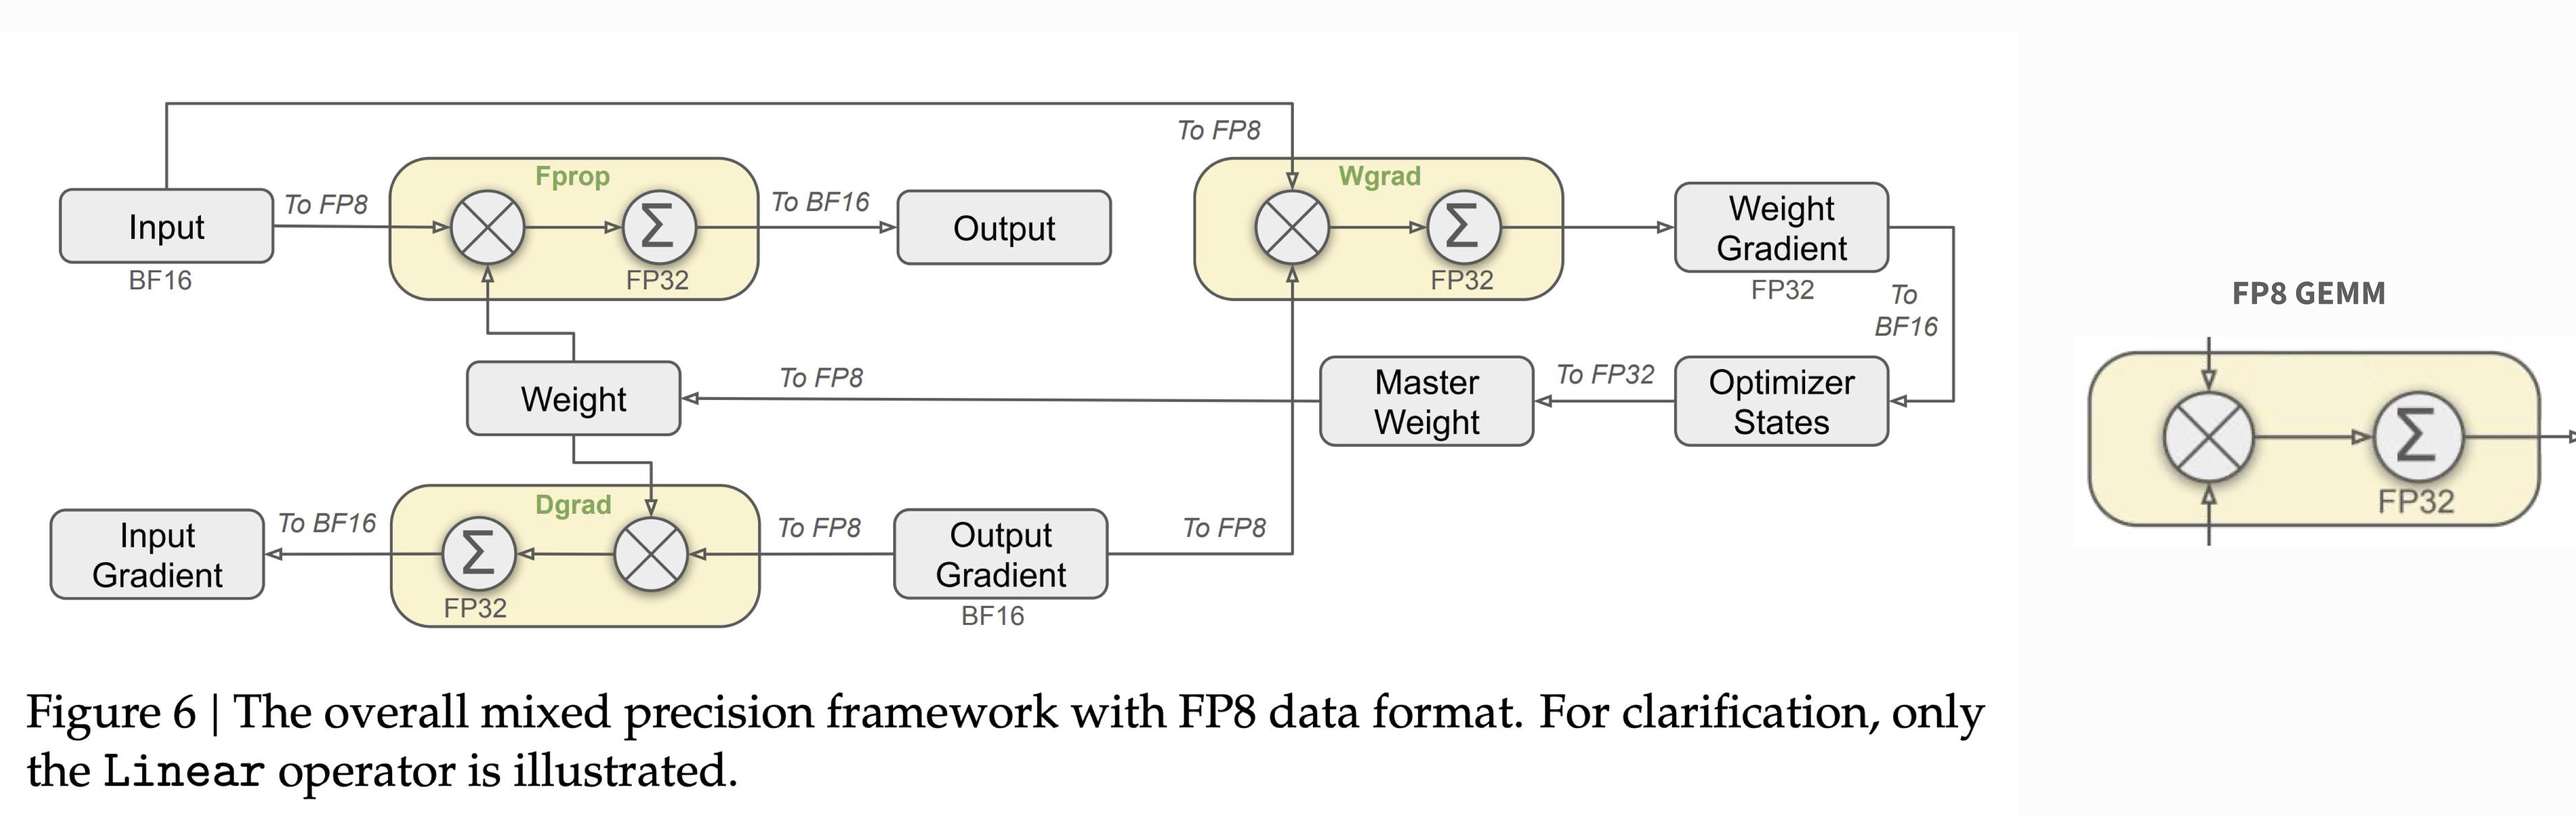
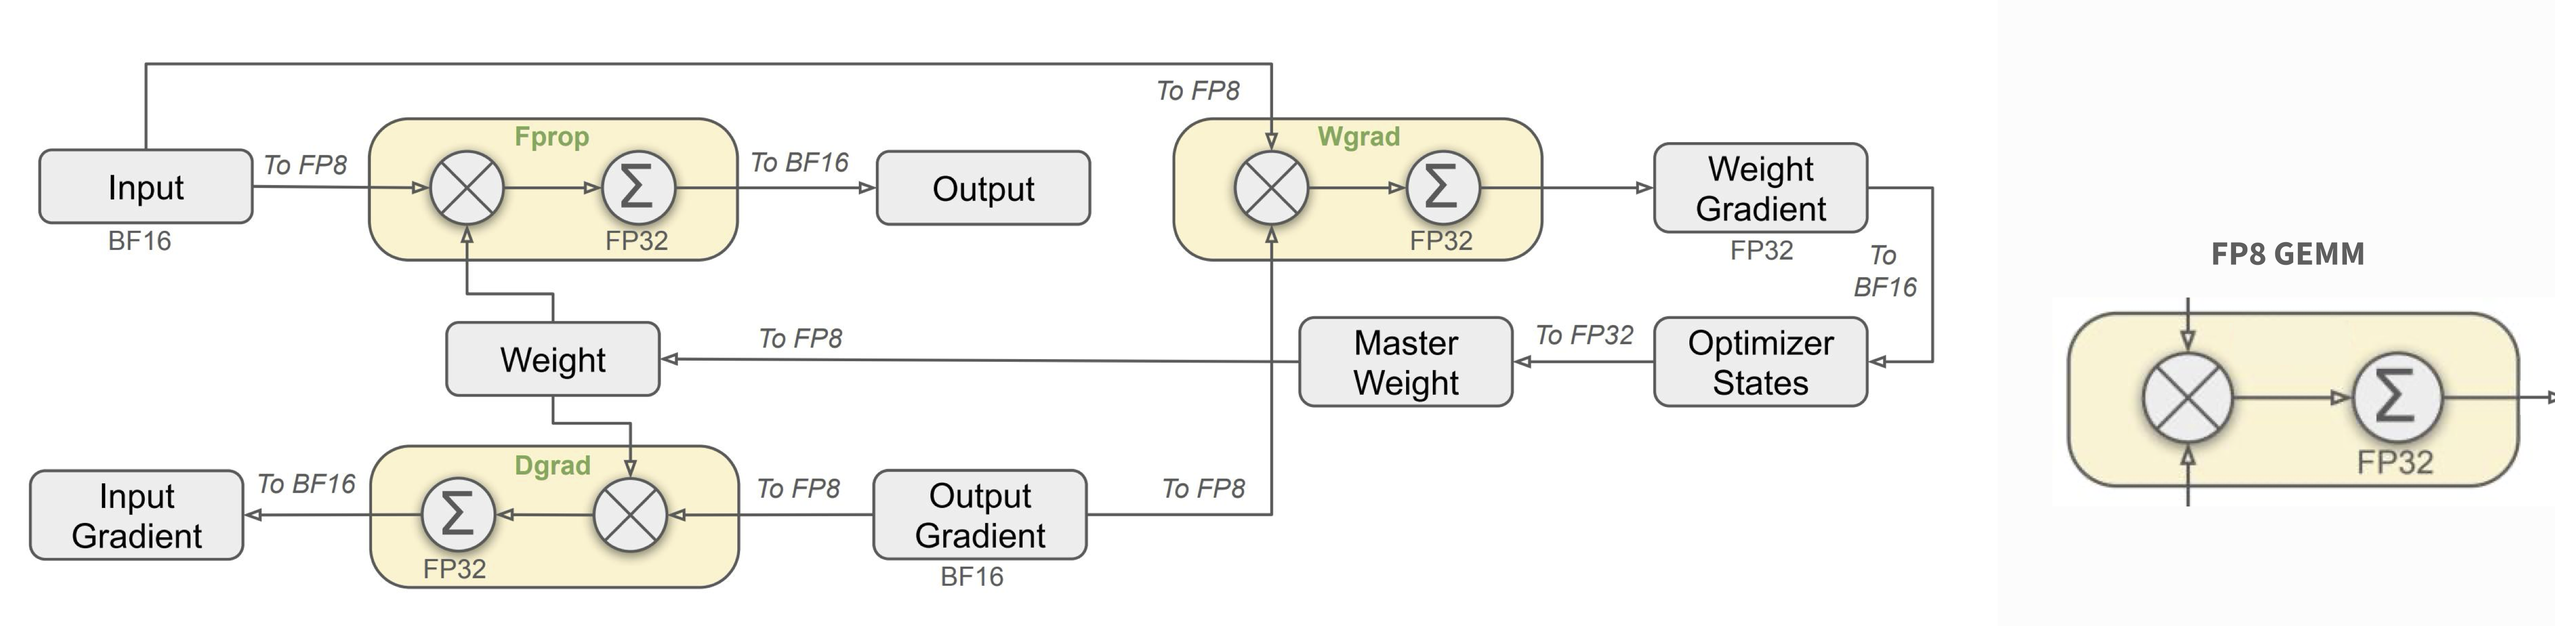
[nvfp4] #8 crop figures

Changed region(s): [[0.0, 0.0914, 0.7764, 0.9745], [0.8074, 0.335, 1.0, 0.7918]]

diff --git a/b300-nvfp4-series/todo.md b/b300-nvfp4-series/todo.md
@@ -2,7 +2,7 @@
 
 #### Figures
 * [x] Redo Figure 1 (fp_summary.png)
-* [ ] Crop almost all figures again
+* [x] Crop almost all figures again
 * [ ] NVFP4 section: describe content of figures properly
 
 #### FP32/FP16 Section
